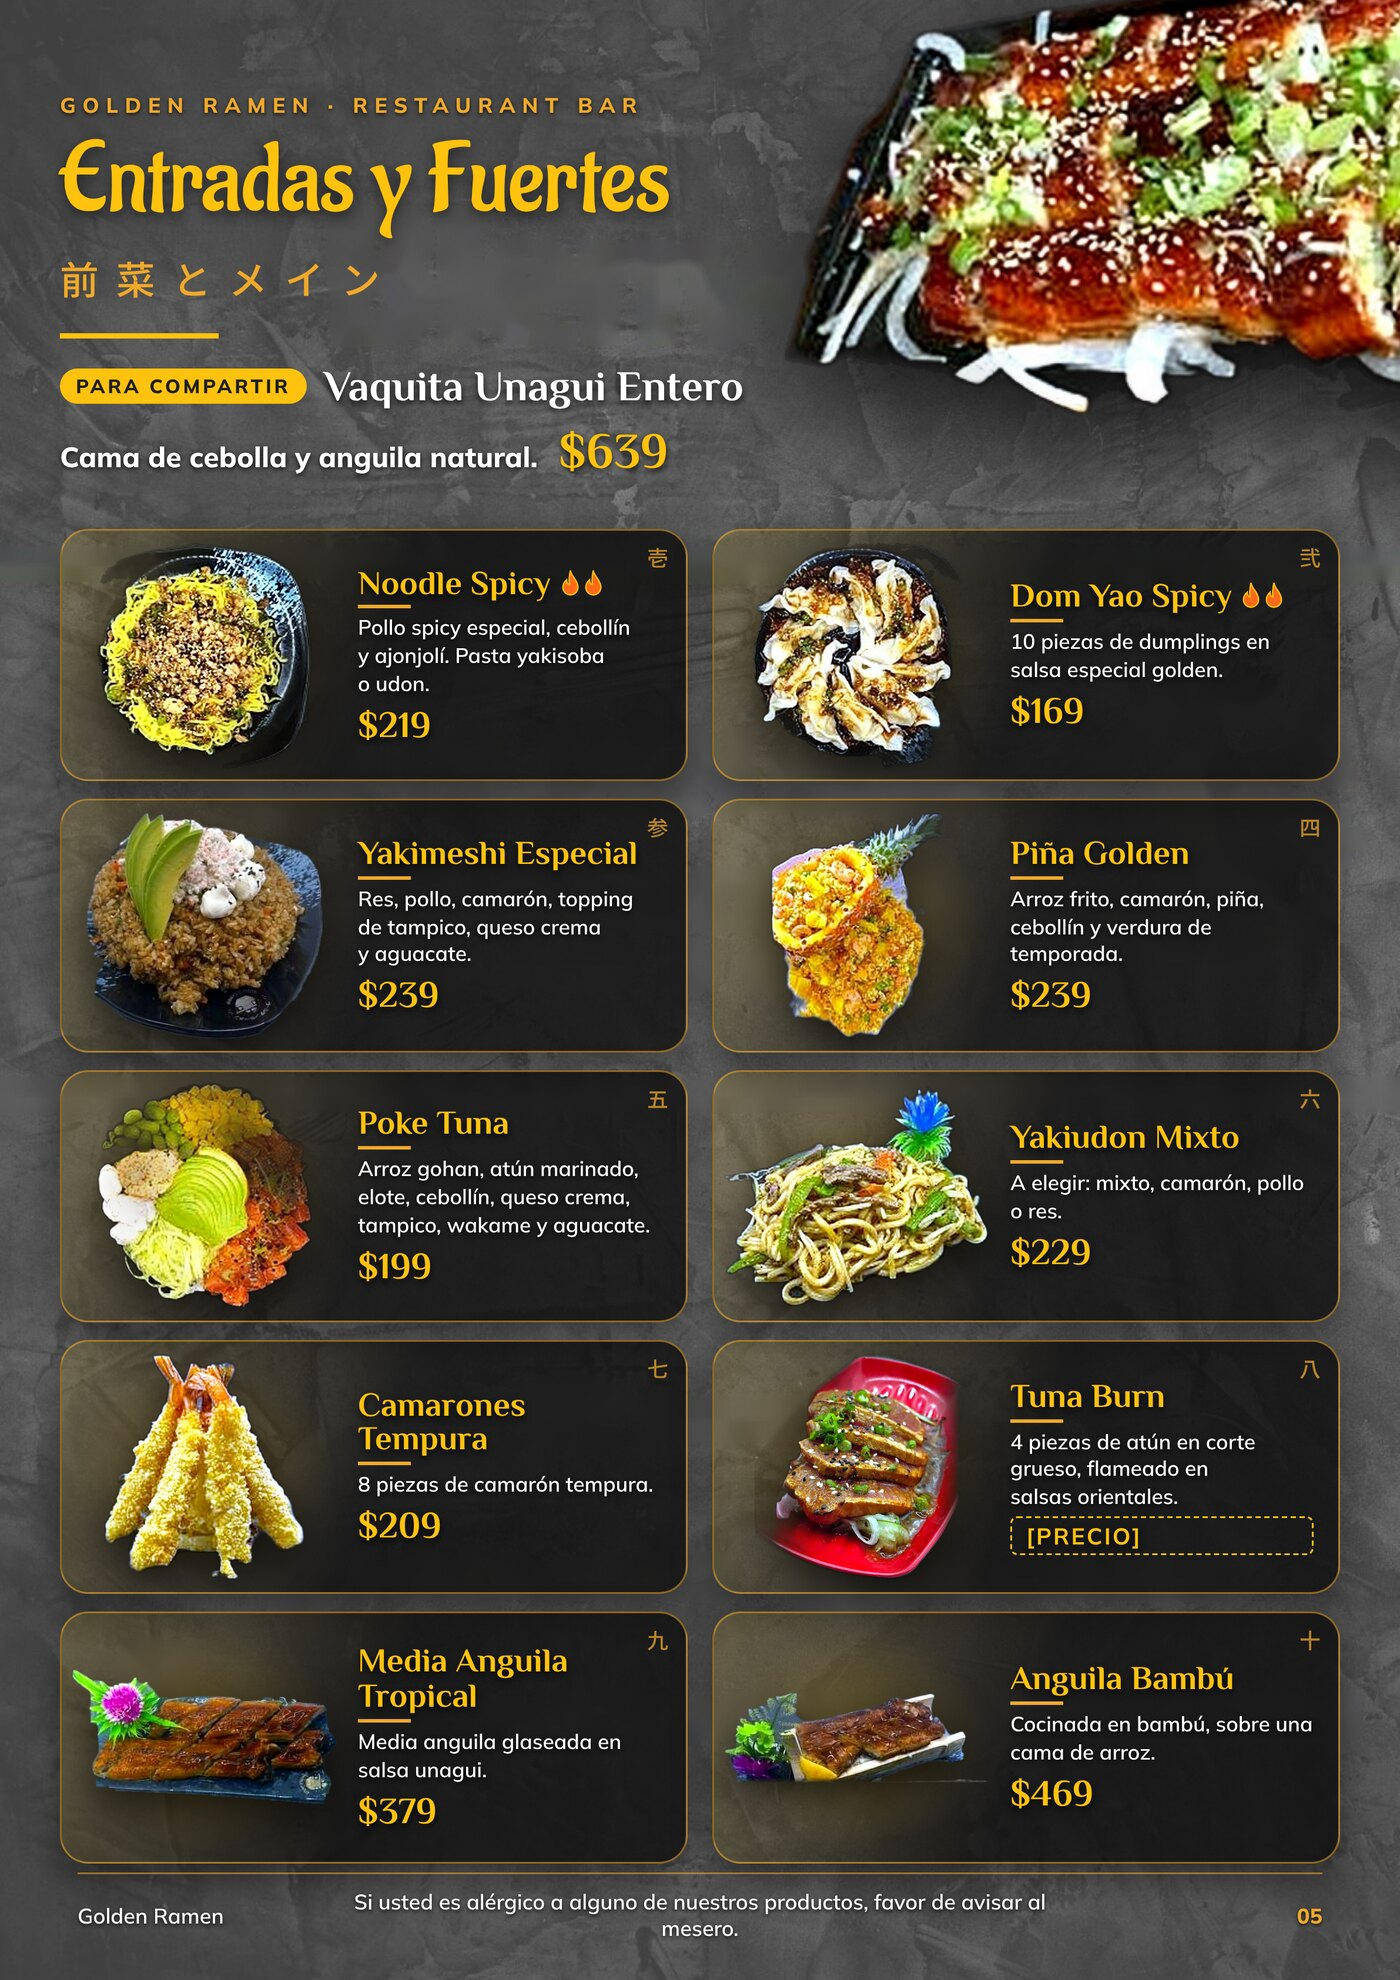
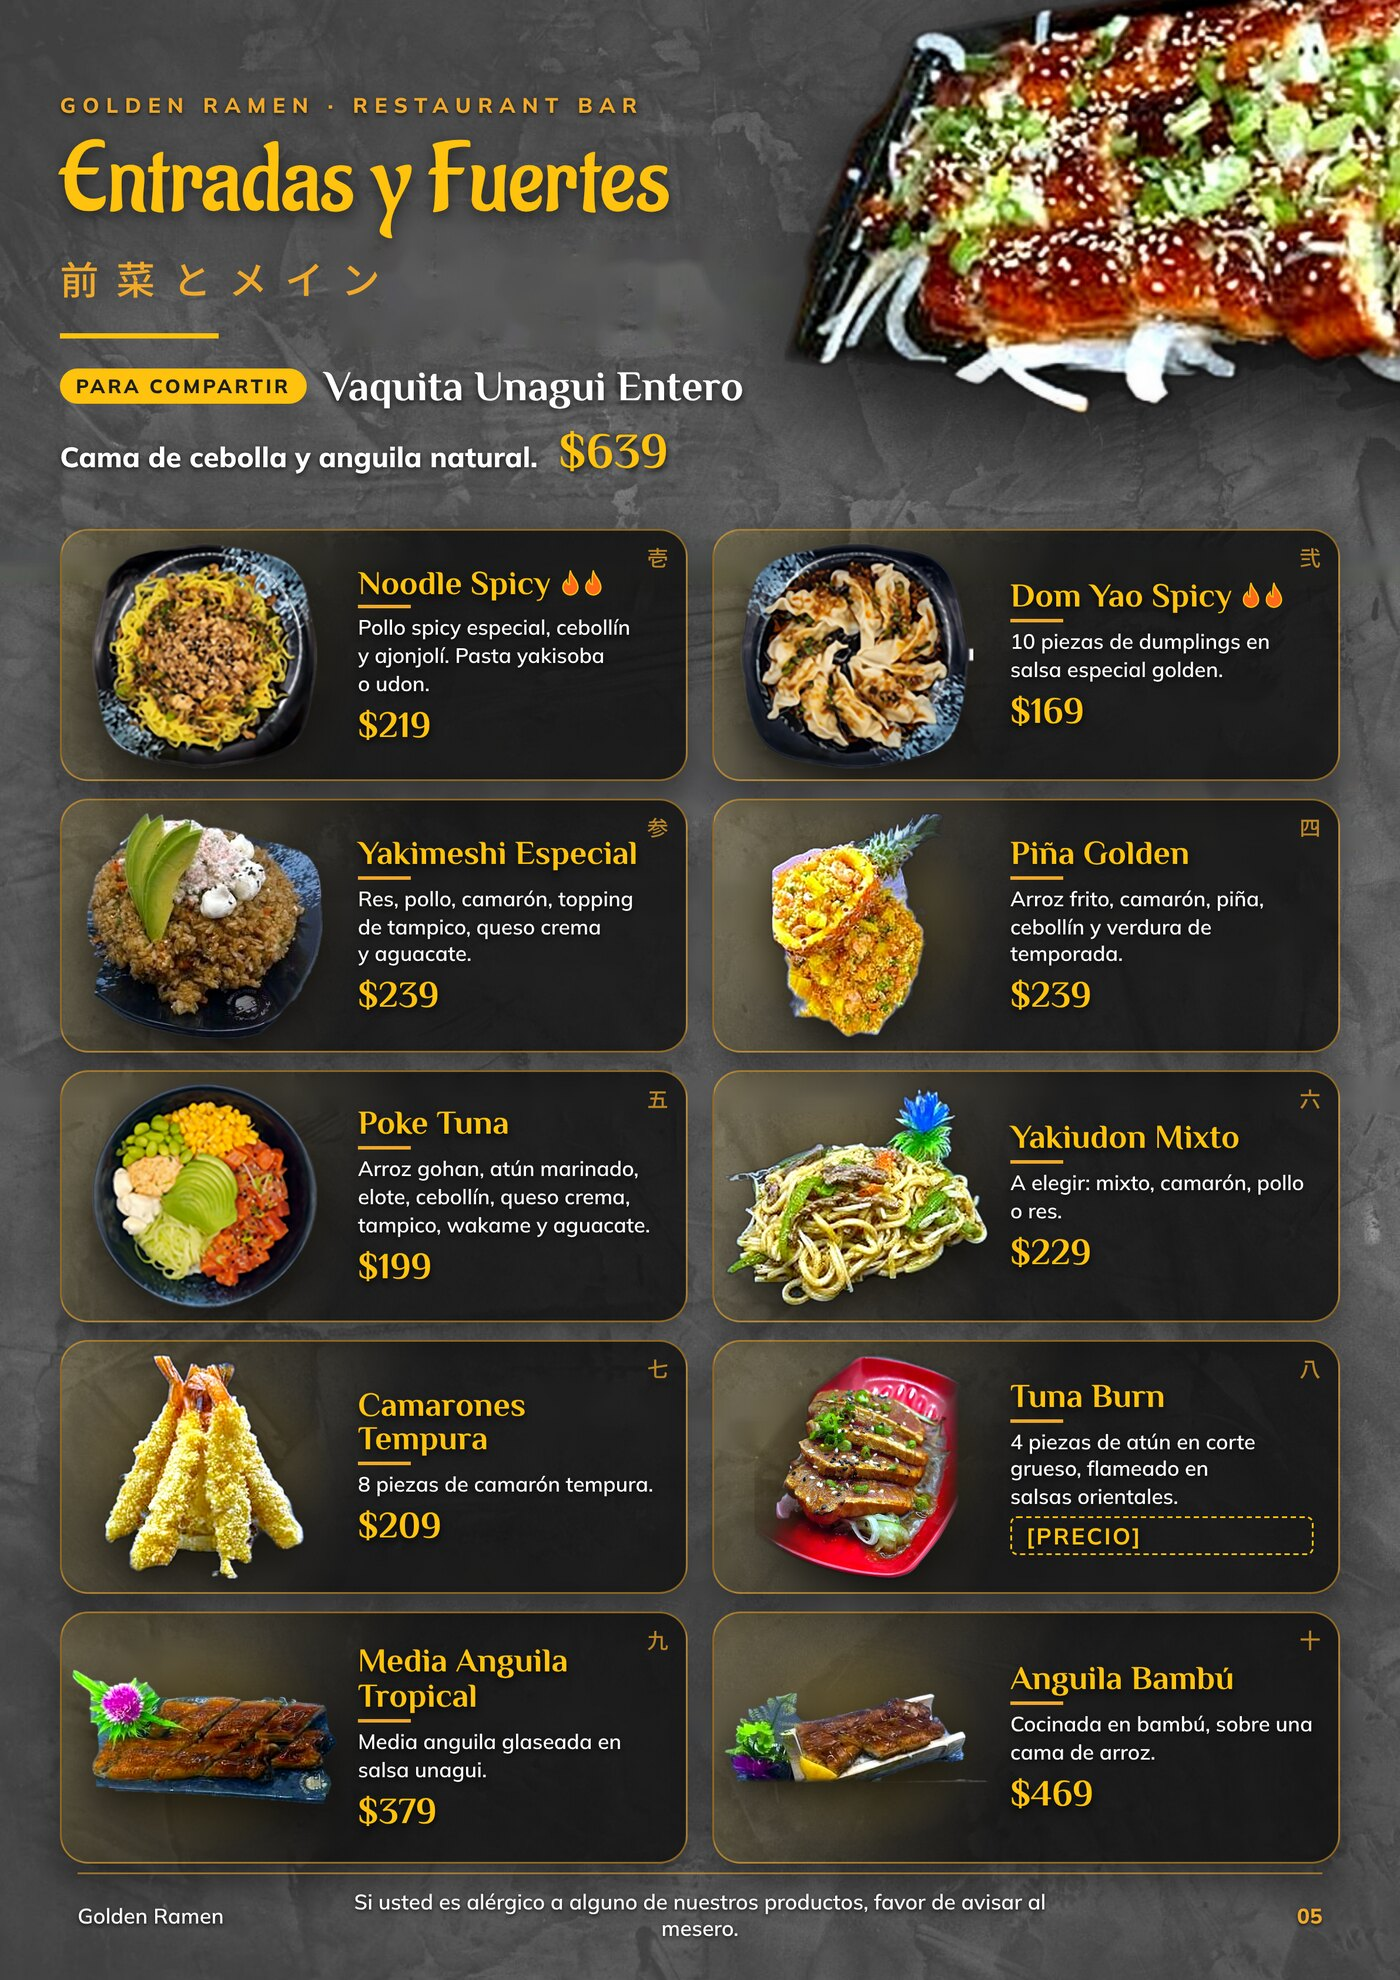
Fotos nuevas: Noodle Spicy, Dom Yao Spicy, Poke Tuna
Claude-Session: https://claude.ai/code/session_019koabpyAAMnZPtrZYFtJVk

Changed region(s): [[0.5221, 0.2773, 0.7064, 0.4005], [0.0614, 0.5237, 0.2457, 0.6778], [0.0614, 0.2773, 0.2457, 0.4005]]

diff --git a/index.html b/index.html
@@ -53,10 +53,10 @@ for(let i=1;i<=N;i++){
   const d=document.createElement('div');
   d.className='page'+((i===1||i===N)?' hard':'');
   if(i===1||i===N) d.setAttribute('data-density','hard');
-  d.innerHTML=`<img src="p${pad(i)}.jpg?v=1794815504" alt="Página ${i} del menú Golden Ramen" ${i>4?'loading="lazy"':''}>`;
+  d.innerHTML=`<img src="p${pad(i)}.jpg?v=1794816012" alt="Página ${i} del menú Golden Ramen" ${i>4?'loading="lazy"':''}>`;
   book.appendChild(d);
   const t=document.createElement('button'); t.className='th'; t.setAttribute('aria-label','Ir a la página '+i);
-  t.innerHTML=`<img src="t${pad(i)}.jpg?v=1794815504" alt="">`; t.onclick=()=>pf&&pf.flip(i-1);
+  t.innerHTML=`<img src="t${pad(i)}.jpg?v=1794816012" alt="">`; t.onclick=()=>pf&&pf.flip(i-1);
   thumbs.appendChild(t);
 }
 let pf=null; let lastW=innerWidth; addEventListener('resize',()=>{ if(Math.abs(innerWidth-lastW)>80){ location.reload(); } });
